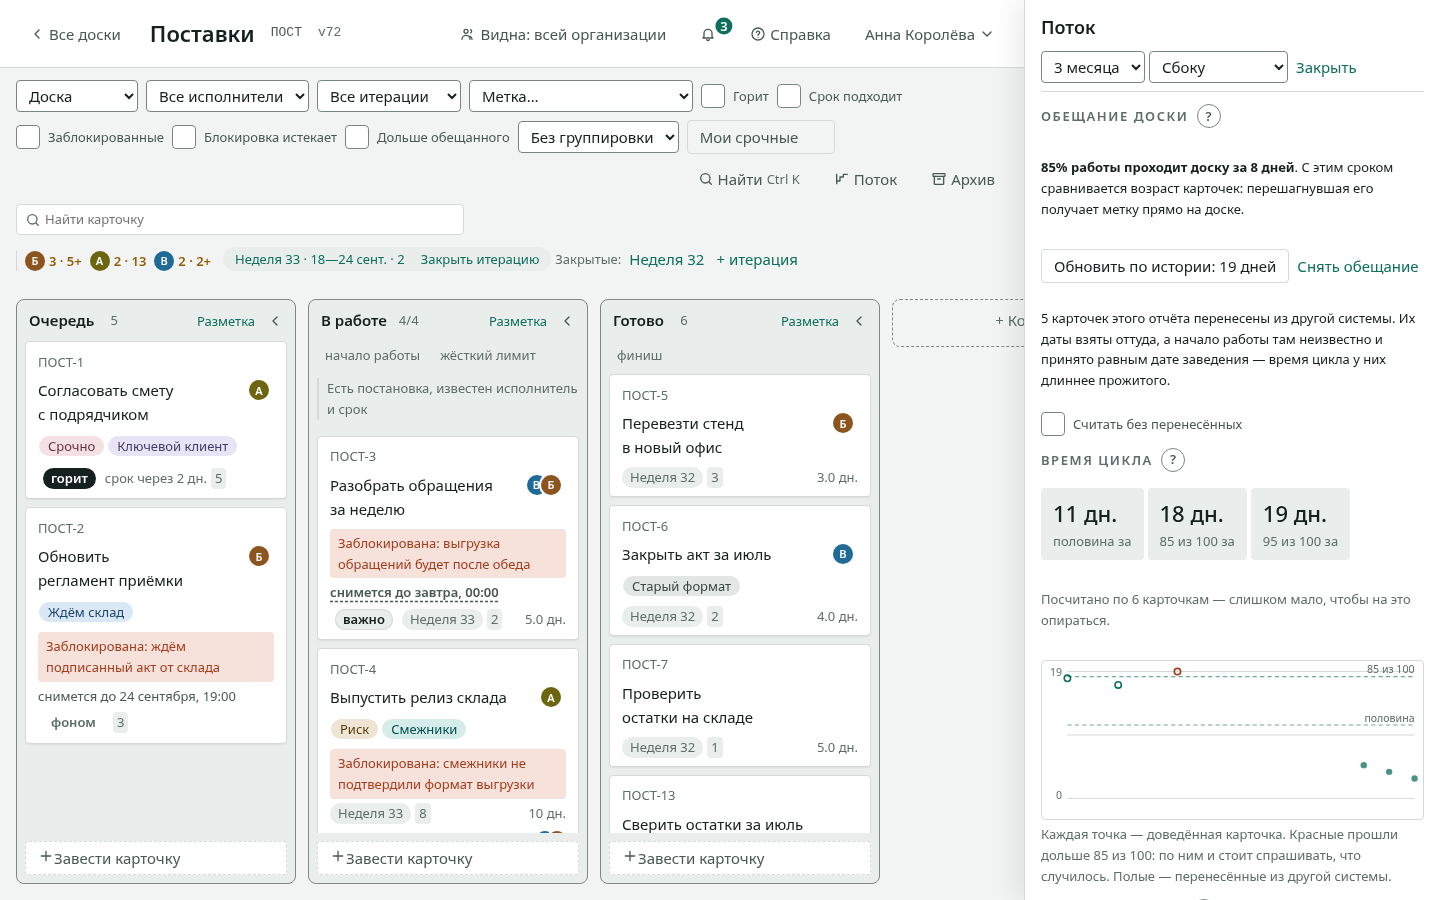
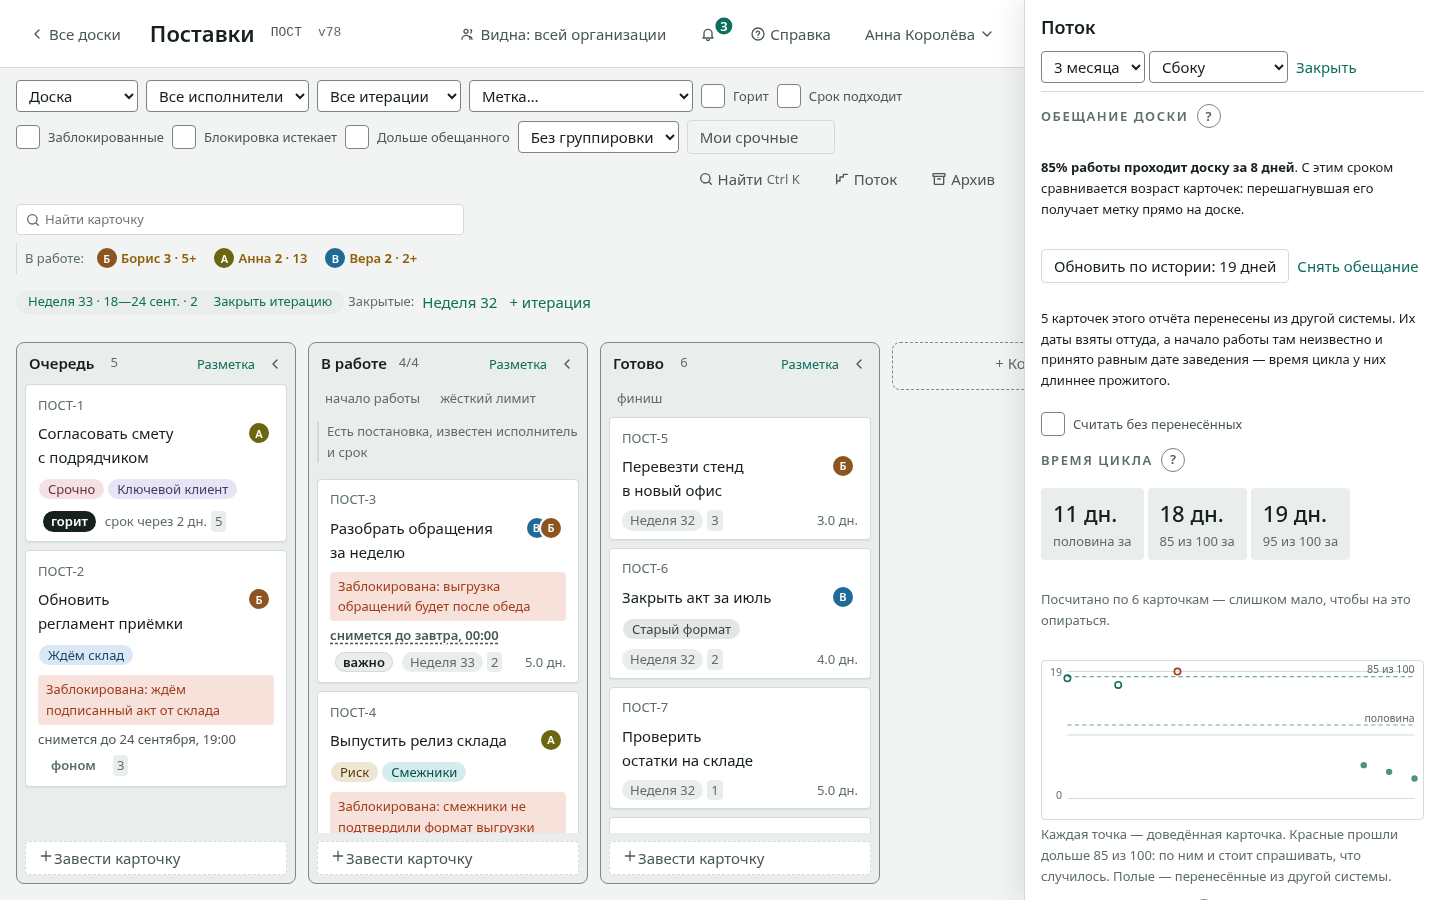
Workload strip: names, a caption, and a click filters the board
The owner asked «what is this for?» about the row of initials with
numbers above the board. It is the workload: how many unfinished cards
each person carries on this board. It did not say so, two people were
both «А», and it did nothing when pressed. Now it starts with «In
progress:», each person is shown by first name (in full when two share
it), and pressing a person filters the board by them; pressing again
lifts the filter. The hover text says the same in words, and the
pressed person is highlighted.

The new API calls of this week (tasks, sign-in links, changing an
email) moved out of the shared client into the screens that use them,
which load separately: with them the first load had grown past its
130 KB limit.

How to check:
1. Open «Поставки»: under the toolbar «В работе: Борис 3 · 5+, Анна 2 ·
   13, Вера 2 · 2+».
2. Press «Анна»: only her cards stay, and the address holds the filter;
   press again — the whole board is back.

--- ru ---

Строка загрузки: имена, подпись, и нажатие отбирает доску

Владелец спросил «зачем это?» про строку инициалов с числами над доской.
Это загрузка: сколько незаконченных карточек несёт каждый на этой доске.
Она этого не говорила, два человека были одинаковыми «А», и нажатие
ничего не делало. Теперь строка начинается с «В работе:», человек назван
именем (целиком, если имя повторяется), и нажатие по нему отбирает доску
по нему; повторное снимает отбор. Подсказка говорит то же словами,
отобранный человек выделен.
[…]

diff --git a/web/src/features/board/Workload.tsx b/web/src/features/board/Workload.tsx
@@ -25,16 +25,28 @@ import { locale, t } from '../../shared/i18n/index.ts'
  * **Сумма — по оценённым**, а неоценённые названы отдельно: сумма,
  * тихо пропустившая половину карточек, — это меньше, чем есть, и хуже,
  * чем отсутствие суммы.
+ *
+ * Человек назван именем, а не одной буквой (владелец 22.09.2026: «зачем
+ * это?» — на доске после переноса стояли две «А» с разными числами),
+ * и нажатие по нему отбирает доску по нему же: число на ком-то —
+ * вопрос «что это за карточки», и ответ на него должен быть в одно
+ * нажатие.
  */
 export function Workload({
   base,
   order,
   unit,
+  picked,
+  onPick,
 }: {
   base: BaseState
   /** Тот же порядок, что на доске: фильтр уже применён. */
   order: Record<string, string[]>
   unit: EstimateUnit
+  /** Кем сейчас отобрана доска; null — никем. */
+  picked: string | null
+  /** Отобрать доску по человеку; null — снять отбор. */
+  onPick: (userId: string | null) => void
 }) {
   const rows = useMemo(() => {
     const done = new Set(
@@ -74,13 +86,25 @@ export function Workload({
 
   if (rows.length === 0) return null
 
+  // Имя — первым словом; тёзкам — целиком, иначе две «Анны» на доске
+  // опять неразличимы.
+  const first = (name: string) => name.split(/\s+/)[0] ?? name
+  const namesake = new Set(
+    rows.map((r) => first(r.name)).filter((n, i, all) => all.indexOf(n) !== i),
+  )
+
   return (
     <div className="workload" role="group" aria-label={t.board.workloadLabel}>
+      <span className="workload-caption small muted">{t.board.workloadCaption}</span>
       {rows.map((row) => (
-        <span
+        <button
+          type="button"
           key={row.userId}
-          className={row.overdue ? 'workload-item workload-item--aging' : 'workload-item'}
+          className={`btn btn--quiet workload-item${row.overdue ? ' workload-item--aging' : ''}`}
           title={title(row, unit)}
+          aria-pressed={picked === row.userId}
+          aria-label={t.board.workloadPick(title(row, unit))}
+          onClick={() => onPick(picked === row.userId ? null : row.userId)}
         >
           {/* Полный размер, а не второй план: в кружок восемнадцати
               две заглавные не входят, и мелкий кружок берёт одну
@@ -89,10 +113,11 @@ export function Workload({
               с двумя Борисами отвечает неверно. */}
           <Avatar name={row.name} />
           <span className="small">
-            {row.cards}
+            {namesake.has(first(row.name)) ? row.name : first(row.name)}{' '}
+            <strong>{row.cards}</strong>
             {row.weight > 0 && ` · ${number(row.weight)}${row.unestimated > 0 ? '+' : ''}`}
           </span>
-        </span>
+        </button>
       ))}
     </div>
   )

diff --git a/web/src/shared/api/index.ts b/web/src/shared/api/index.ts
@@ -993,10 +993,6 @@ export const api = {
    *  утечь, а к этому времени он мог стать чужой сессией. */
   changePassword: (current: string, next: string) =>
     request<void>('PUT', '/api/me/password', { current, next }),
-  /** Своя почта — с текущим паролем: из украденной сессии её сменили бы,
-   *  и хозяин больше не вошёл бы своим адресом. */
-  changeEmail: (current: string, email: string) =>
-    request<{ email: string }>('PUT', '/api/me/email', { current, email }),
   /** «Выйти на всех устройствах»: этот браузер остаётся, остальные — нет. */
   signOutElsewhere: () => request<void>('DELETE', '/api/me/sessions'),
   /** Язык интерфейса — у человека, а не у браузера: выбранный на работе
@@ -1029,17 +1025,6 @@ export const api = {
     request<{ sourceHistory?: SourceHistory }>('GET', `/api/boards/${boardId}/cards/${cardId}`).then(
       (r) => r.sourceHistory ?? null,
     ),
-  /** Задачи человека со всех досок, которые видит спрашивающий;
-   *  без user — свои. */
-  tasks: (user?: string, withDone?: boolean) =>
-    request<{ tasks: Task[]; truncated: boolean }>(
-      'GET',
-      '/api/tasks?' +
-        new URLSearchParams({ ...(user ? { user } : {}), ...(withDone ? { done: '1' } : {}) }).toString(),
-    ),
-  /** Владелец правит почту участника — тому, кто состоит только здесь. */
-  setMemberEmail: (userId: string, email: string) =>
-    request<{ email: string }>('PUT', `/api/members/${userId}/email`, { email }),
   setRole: (userId: string, role: Role) =>
     request<void>('PUT', `/api/members/${userId}/role`, { role }),
   removeMember: (userId: string) => request<void>('DELETE', `/api/members/${userId}`),
@@ -1051,13 +1036,6 @@ export const api = {
   /** Токен приглашения едет в теле, а не в адресе: адреса попадают
    *  в логи прокси и в историю браузера, а этот токен даёт членство
    *  в организации. Чтение через POST — плата за это. */
-  /** Ссылка «задать пароль»: владелец выпускает, человек открывает. */
-  issuePasswordLink: (userId: string) =>
-    request<{ link: string; expiresAt: string }>('POST', `/api/members/${userId}/password-link`),
-  passwordLinkInfo: (token: string) =>
-    request<PasswordLinkInfo>('POST', '/api/password-links/lookup', { token }),
-  usePasswordLink: (token: string, password: string) =>
-    request<Principal>('POST', '/api/password-links/use', { token, password }),
   inviteInfo: (token: string) => request<InviteInfo>('POST', '/api/invites/lookup', { token }),
   acceptInvite: (token: string, account?: { name: string; password: string }) =>
     request<Principal>('POST', '/api/invites/accept', { token, ...account }),

diff --git a/web/src/widgets/PasswordLink.tsx b/web/src/widgets/PasswordLink.tsx
@@ -1,8 +1,17 @@
 import { useEffect, useState } from 'react'
-import { ApiError, MIN_PASSWORD, api } from '../shared/api/index.ts'
+import { ApiError, MIN_PASSWORD, request } from '../shared/api/index.ts'
 import type { PasswordLinkInfo, Principal } from '../shared/api/index.ts'
 import { Field, FormError, ScreenError, useFormErrors } from '../shared/ui/Field.tsx'
 import { locale, t } from '../shared/i18n/index.ts'
+
+// Вызов — здесь, а не в общем клиенте `api`: общий клиент едет в первую
+// загрузку каждого экрана, а этот экран грузится отдельно (порог размера
+// первой загрузки — web/e2e/perf.spec.ts).
+const linkApi = {
+  info: (token: string) => request<PasswordLinkInfo>('POST', '/api/password-links/lookup', { token }),
+  use: (token: string, password: string) =>
+    request<Principal>('POST', '/api/password-links/use', { token, password }),
+}
 
 /**
  * Ссылка «задать пароль» (ROADMAP 23.6).
@@ -29,8 +38,8 @@ export function PasswordLinkScreen({
   const form = useFormErrors()
 
   useEffect(() => {
-    api
-      .passwordLinkInfo(token)
+    linkApi
+      .info(token)
       .then(setInfo)
       .catch((e) => setError(e instanceof Error ? e.message : s.failed))
   }, [token, s])
@@ -63,8 +72,8 @@ export function PasswordLinkScreen({
           }
           setBusy(true)
           form.clear()
-          api
-            .usePasswordLink(token, password)
+          linkApi
+            .use(token, password)
             .then(onSignedIn)
             .catch((e) => {
               const text = e instanceof Error ? e.message : t.common.notDone

diff --git a/web/src/widgets/Tasks.tsx b/web/src/widgets/Tasks.tsx
@@ -1,5 +1,5 @@
 import { useEffect, useState } from 'react'
-import { api } from '../shared/api/index.ts'
+import { api, request } from '../shared/api/index.ts'
 import type { Member, Principal, Task } from '../shared/api/index.ts'
 import { chipClass, labelTitle } from '../entities/label/model.ts'
 import { PRIORITY_NAMES, dateWords } from '../entities/card/model.ts'
@@ -9,6 +9,16 @@ import { Skeleton } from '../shared/ui/states.tsx'
 import { t } from '../shared/i18n/index.ts'
 
 const DAY = 24 * 60 * 60 * 1000
+
+// Вызов — здесь, а не в общем клиенте `api`: общий клиент едет в первую
+// загрузку каждого экрана, а этот экран грузится отдельно (порог размера
+// первой загрузки — web/e2e/perf.spec.ts).
+const loadTasks = (user?: string, withDone?: boolean) =>
+  request<{ tasks: Task[]; truncated: boolean }>(
+    'GET',
+    '/api/tasks?' +
+      new URLSearchParams({ ...(user ? { user } : {}), ...(withDone ? { done: '1' } : {}) }).toString(),
+  )
 
 /**
  * Задачи человека со всех досок (решение владельца 22.09.2026: «вывод
@@ -40,8 +50,7 @@ export function Tasks({ principal }: { principal: Principal }) {
     let current = true
     setList(null)
     setError(null)
-    api
-      .tasks(user === principal.id ? undefined : user, withDone)
+    loadTasks(user === principal.id ? undefined : user, withDone)
       .then((r) => current && setList(r))
       .catch((e) => current && setError(e instanceof Error ? e.message : s.loadFailed))
     return () => {

diff --git a/web/e2e/board.spec.ts b/web/e2e/board.spec.ts
@@ -1980,6 +1980,18 @@ test('видно, сколько на ком висит', async ({ page }) => {
   await done.getByRole('button', { name: /Действия карточки/ }).click()
   await page.getByRole('menuitem', { name: 'Перенести в «Готово»' }).click()
   await expect(load).toContainText('1')
+
+  // Человек назван именем, и нажатие по нему отбирает доску по нему;
+  // повторное — снимает отбор.
+  await expect(load).toContainText('В работе:')
+  const me = load.getByRole('button', { name: /^Показать только его карточки — Проверяющий/ })
+  await expect(me).toContainText('Проверяющий')
+  await me.click()
+  await expect(me).toHaveAttribute('aria-pressed', 'true')
+  await expect(page).toHaveURL(/assignee=/)
+  await me.click()
+  await expect(me).toHaveAttribute('aria-pressed', 'false')
+  await expect(page).not.toHaveURL(/assignee=/)
 })
 
 /**

diff --git a/web/src/widgets/Team.tsx b/web/src/widgets/Team.tsx
@@ -1,5 +1,5 @@
 import { useCallback, useEffect, useMemo, useState } from 'react'
-import { ROLE_NAMES, api } from '../shared/api/index.ts'
+import { ROLE_NAMES, api, request } from '../shared/api/index.ts'
 import { UNIT_NAMES } from '../entities/card/model.ts'
 import { CopyButton } from '../shared/ui/CopyButton.tsx'
 import { useToast } from '../shared/ui/Toast.tsx'
@@ -192,8 +192,7 @@ export function Team({ principal }: { principal: Principal }) {
                       className="link"
                       onClick={() => {
                         setError(null)
-                        api
-                          .issuePasswordLink(m.userId)
+                        request<{ link: string }>('POST', `/api/members/${m.userId}/password-link`)
                           .then((r) => setLoginLink({ name: m.name, link: r.link }))
                           .catch((e) => setError(e instanceof Error ? e.message : t.common.notDone))
                       }}

diff --git a/web/src/features/account/MemberEmailDialog.tsx b/web/src/features/account/MemberEmailDialog.tsx
@@ -1,5 +1,5 @@
 import { useEffect, useRef, useState } from 'react'
-import { ApiError, api } from '../../shared/api/index.ts'
+import { ApiError, request } from '../../shared/api/index.ts'
 import type { Member } from '../../shared/api/index.ts'
 import { Button } from '../../shared/ui/Button.tsx'
 import { Field, FormError, useFormErrors } from '../../shared/ui/Field.tsx'
@@ -56,8 +56,7 @@ export function MemberEmailDialog({
           }
           setBusy(true)
           form.clear()
-          api
-            .setMemberEmail(member.userId, email)
+          request<{ email: string }>('PUT', `/api/members/${member.userId}/email`, { email })
             .then((r) => {
               // Сначала закрыть, потом доложить: диалог в верхнем слое
               // спрятал бы тост под собой.

diff --git a/web/src/features/account/EmailForm.tsx b/web/src/features/account/EmailForm.tsx
@@ -1,5 +1,5 @@
 import { useState } from 'react'
-import { ApiError, api } from '../../shared/api/index.ts'
+import { ApiError, request } from '../../shared/api/index.ts'
 import { useToast } from '../../shared/ui/Toast.tsx'
 import { Field, FormError, useFormErrors } from '../../shared/ui/Field.tsx'
 import { t } from '../../shared/i18n/index.ts'
@@ -42,8 +42,7 @@ export function EmailForm({
         }
         setBusy(true)
         form.clear()
-        api
-          .changeEmail(current, email)
+        request<{ email: string }>('PUT', '/api/me/email', { current, email })
           .then((r) => {
             setEmail('')
             setCurrent('')

diff --git a/web/src/widgets/Board.tsx b/web/src/widgets/Board.tsx
@@ -1124,7 +1124,13 @@ export function Board({
           по показанному: рядом «скрыто N» от отбора, и числа по всей
           доске спорили бы с экраном. */}
       <div className="board-toolbar board-context">
-        <Workload base={base} order={order} unit={unit} />
+        <Workload
+          base={base}
+          order={order}
+          unit={unit}
+          picked={filters.assignee}
+          onPick={(assignee) => setFilters({ ...filters, assignee })}
+        />
         <FlowHint columns={columnList} />
         <Iterations
           boardId={boardId}

diff --git a/web/src/app/styles.css b/web/src/app/styles.css
@@ -4510,6 +4510,12 @@ textarea.description {
   gap: var(--space-1);
   color: var(--ink-2);
   white-space: nowrap;
+  padding-inline: var(--space-1);
+}
+/* Отобранный человек — подложкой: доска сейчас показывает его. */
+.workload-item[aria-pressed='true'] {
+  background: var(--accent-soft);
+  color: var(--ink);
 }
 /* У человека есть работа дольше обещанного — янтарём, а не красным:
    загрузка — повод спросить, а не тревога. */

diff --git a/web/src/shared/i18n/ru.ts b/web/src/shared/i18n/ru.ts
@@ -495,6 +495,8 @@ export const ru = {
   },
   board: {
     workloadLabel: 'Сколько на ком висит',
+    workloadCaption: 'В работе:',
+    workloadPick: (what: string) => `Показать только его карточки — ${what}`,
     workloadInWork: (name: string, n: number) => `${name}: ${n} в работе`,
     workloadUnestimated: (n: number) => `${n} без оценки`,
     workloadOverdue: 'есть карточка дольше обещанного',

diff --git a/web/src/shared/i18n/en.ts b/web/src/shared/i18n/en.ts
@@ -489,6 +489,8 @@ export const en: typeof ru = {
   },
   board: {
     workloadLabel: 'Who carries how much',
+    workloadCaption: 'In progress:',
+    workloadPick: (what: string) => `Show only their cards — ${what}`,
     workloadInWork: (name: string, n: number) => `${name}: ${n} in progress`,
     workloadUnestimated: (n: number) => `${n} without an estimate`,
     workloadOverdue: 'has a card running longer than promised',
